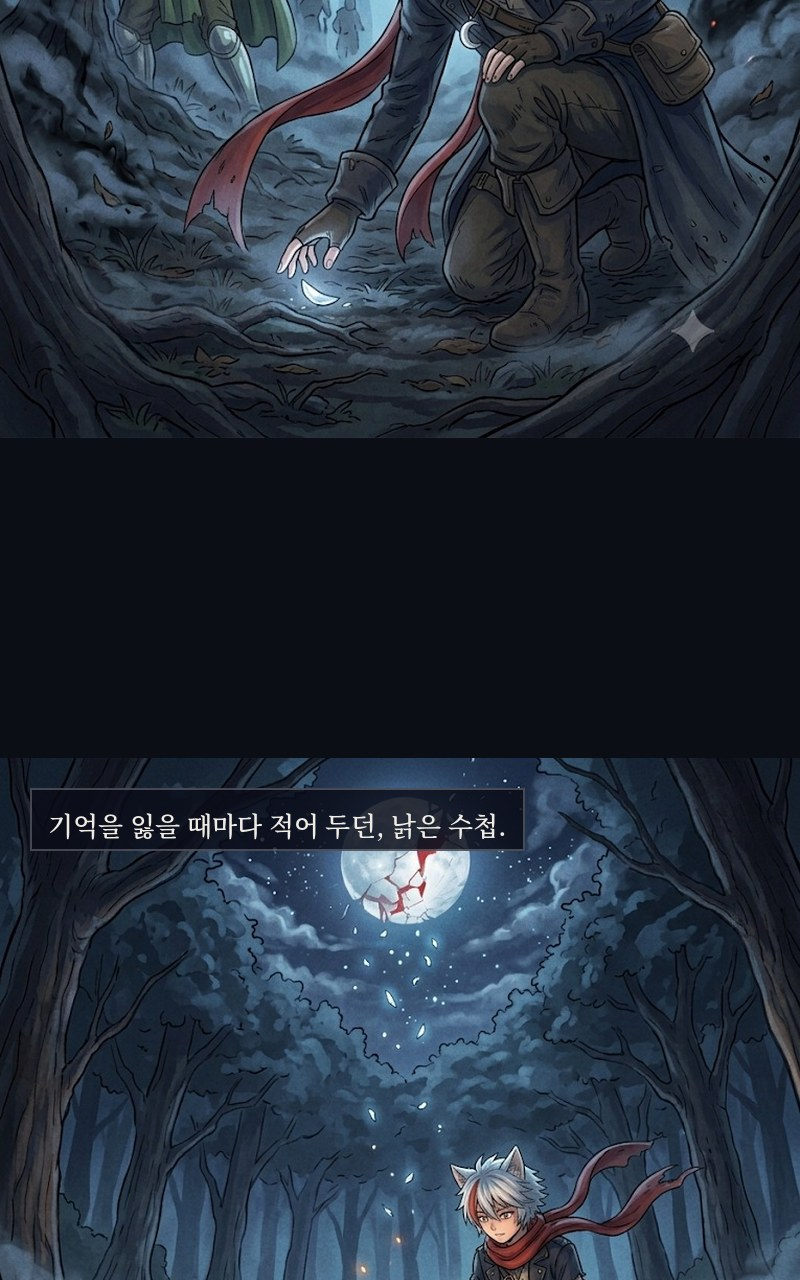
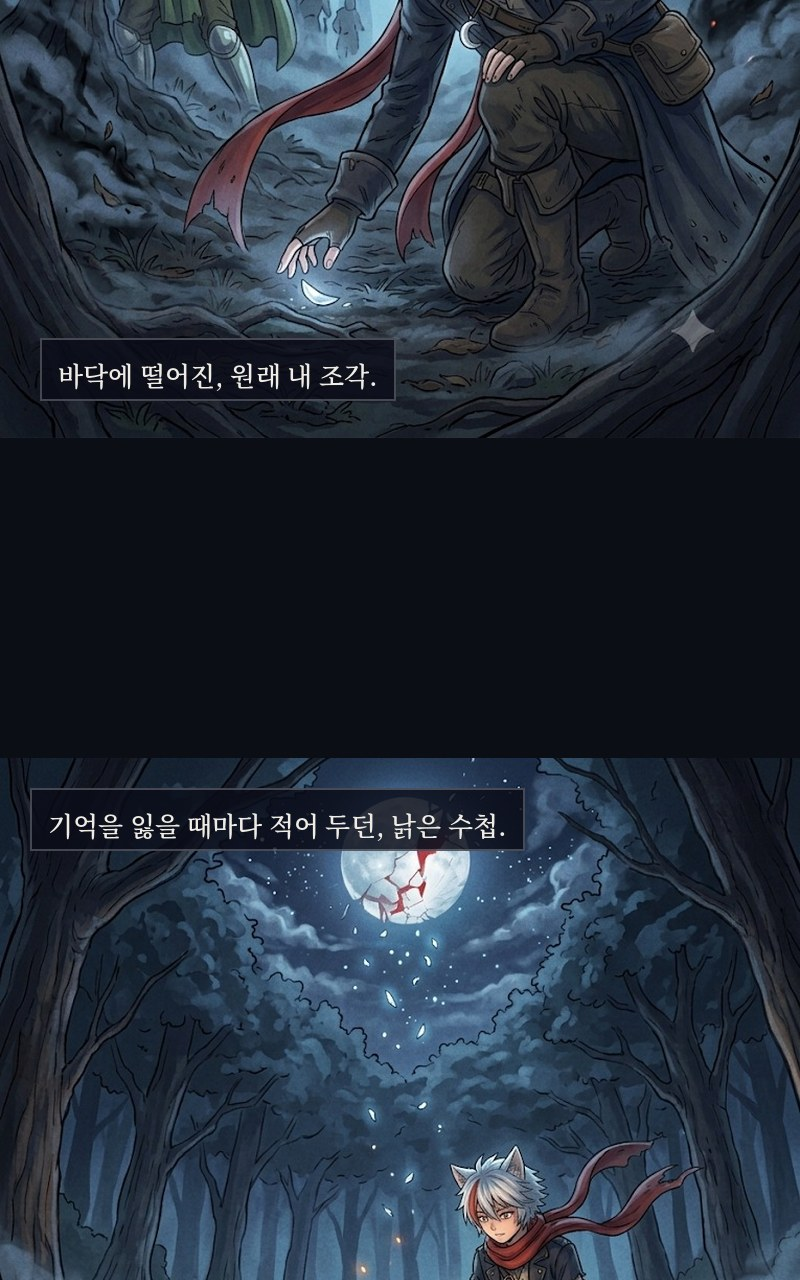
달빛툰 1화: 개연성 보강 (숨긴 두 번째 조각, 떨어진 조각)
Claude-Session: https://claude.ai/code/session_01D8ERGz5r4FPkuXoKDYhqRw

Changed region(s): [[0.0625, 0.25, 0.5, 0.3125]]

diff --git a/toon_tools/compose_ep1.py b/toon_tools/compose_ep1.py
@@ -1,0 +1,213 @@
+"""달빛툰 1화 세로 웹툰 조립: 컷(제미나이) + 말풍선·내레이션·효과음(코드) → 800px 세로 → 1280px 조각"""
+from PIL import Image, ImageDraw, ImageFont, ImageFilter
+import os, math
+
+W = 800
+SRC = "/home/claude/dongne-site/_stage/ep1"
+OUT = "/home/claude/dongne-site/_stage/ep1_out"
+os.makedirs(OUT, exist_ok=True)
+SANS = "/usr/share/fonts/opentype/noto/NotoSansCJK-Bold.ttc"
+SANSB = "/usr/share/fonts/opentype/noto/NotoSansCJK-Black.ttc"
+SERIF = "/usr/share/fonts/opentype/noto/NotoSerifCJK-SemiBold.ttc"
+F = lambda p, s: ImageFont.truetype(p, s, index=1)  # KR
+BG = (12, 14, 22)
+
+
+def panel(n, width=W, crop_top=165):
+    im = Image.open(f"{SRC}/p{n:02d}.jpg").convert("RGB")
+    im = im.crop((0, crop_top, im.width, im.height))
+    h = round(im.height * width / im.width)
+    return im.resize((width, h), Image.LANCZOS)
+
+
+def wrap(d, text, font, maxw):
+    out = []
+    for para in text.split("\n"):
+        line = ""
+        for ch in para:
+            t = line + ch
+            if d.textlength(t, font=font) > maxw and line:
+                out.append(line); line = ch
+            else:
+                line = t
+        out.append(line)
+    return out
+
+
+def bubble(img, text, cx, cy, size=30, tail=None, shout=False, maxw=320):
+    d = ImageDraw.Draw(img)
+    f = F(SANSB if shout else SANS, size)
+    lines = wrap(d, text, f, maxw)
+    lh = size * 1.35
+    tw = max(d.textlength(l, font=f) for l in lines); th = lh * len(lines)
+    rx, ry = tw / 2 + size * 1.1, th / 2 + size * 0.9
+    if tail:
+        tx, ty = tail
+        ang = math.atan2(ty - cy, tx - cx)
+        b1 = (cx + rx * 0.55 * math.cos(ang + 0.35), cy + ry * 0.55 * math.sin(ang + 0.35))
+        b2 = (cx + rx * 0.55 * math.cos(ang - 0.35), cy + ry * 0.55 * math.sin(ang - 0.35))
+        d.polygon([b1, (tx, ty), b2], fill="white", outline=(20, 20, 20))
+    if shout:
+        pts = []
+        for k in range(28):
+            a = k / 28 * 2 * math.pi
+            r = 1.18 if k % 2 == 0 else 0.98
+            pts.append((cx + rx * r * math.cos(a), cy + ry * r * math.sin(a)))
+        d.polygon(pts, fill="white", outline=(20, 20, 20), width=3)
+    else:
+        d.ellipse([cx - rx, cy - ry, cx + rx, cy + ry], fill="white", outline=(20, 20, 20), width=3)
+    if tail:  # 꼬리 이음새 덮기
+        d.polygon([b1, ((b1[0] + b2[0]) / 2 + (cx - (b1[0] + b2[0]) / 2) * 0.3, (b1[1] + b2[1]) / 2 + (cy - (b1[1] + b2[1]) / 2) * 0.3), b2], fill="white")
+    y = cy - th / 2
+    for l in lines:
+        d.text((cx - d.textlength(l, font=f) / 2, y), l, font=f, fill=(15, 15, 15)); y += lh
+
+
+def narration(img, text, x, y, size=26, maxw=560, dark=True):
+    d = ImageDraw.Draw(img, "RGBA")
+    f = F(SERIF, size)
+    lines = wrap(d, text, f, maxw)
+    lh = size * 1.55
+    tw = max(d.textlength(l, font=f) for l in lines)
+    pad = 18
+    box = [x, y, x + tw + pad * 2, y + lh * len(lines) + pad * 2 - (lh - size)]
+    d.rectangle(box, fill=(10, 12, 24, 215) if dark else (250, 247, 240, 235), outline=(255, 255, 255, 60) if dark else (40, 30, 20, 120), width=2)
+    yy = y + pad
+    for l in lines:
+        d.text((x + pad, yy), l, font=f, fill=(238, 236, 228) if dark else (30, 24, 20)); yy += lh
+
+
+def sfx(img, text, x, y, size=90, color=(255, 255, 255), stroke=(20, 10, 10), rot=-8):
+    f = F(SANSB, size)
+    tmp = Image.new("RGBA", (int(size * len(text) * 1.2 + 40), int(size * 1.6)), (0, 0, 0, 0))
+    d = ImageDraw.Draw(tmp)
+    d.text((20, 10), text, font=f, fill=color, stroke_width=max(4, size // 14), stroke_fill=stroke)
+    tmp = tmp.rotate(rot, expand=True, resample=Image.BICUBIC)
+    img.paste(tmp, (int(x), int(y)), tmp)
+
+
+def card(h, bg=BG):
+    return Image.new("RGB", (W, h), bg)
+
+
+def center_text(img, text, y, font, fill, spacing=1.6):
+    d = ImageDraw.Draw(img)
+    for i, l in enumerate(text.split("\n")):
+        d.text(((W - d.textlength(l, font=font)) / 2, y + i * font.size * spacing), l, font=font, fill=fill)
+
+
+blocks = []  # (image, gap_after)
+
+# 0. 오프닝: 검은 화면 · 붉은 글씨 (전독시식 첫 화면)
+c = card(900)
+center_text(c, "…이번이 마지막이다.", 400, F(SERIF, 44), (214, 58, 52))
+blocks.append((c, 0))
+c = card(520)
+center_text(c, "EPISODE 1", 170, F(SANS, 22), (201, 71, 63))
+center_text(c, "F급의 수첩", 220, F(SERIF, 58), (240, 238, 232))
+center_text(c, "F급 사냥꾼은 99번째 인생을 기억한다", 330, F(SANS, 22), (150, 156, 175))
+blocks.append((c, 120))
+
+p = panel(1)
+narration(p, "백 년째 아침이 오지 않는 세상.", 30, 30)
+bubble(p, "F급 주제에\n조각을 주웠어?", 590, 190, size=30, tail=(520, 330))
+sfx(p, "하하하!", 60, 470, size=60, color=(255, 236, 200), rot=6)
+blocks.append((p, 60))
+
+p = panel(2)
+narration(p, "깨진 달에서 떨어지는 은빛 '달 조각'.\n부수면 산도 밀어낼 힘이 생긴다.", 30, 30)
+narration(p, "대신, 기억이 하나 지워진다.", 300, p.height - 120)
+blocks.append((p, 60))
+
+p = panel(3)
+bubble(p, "이건 그린홀드\n기사단이 가져가지.", 230, 110, size=30, tail=(300, 260))
+narration(p, "가문 없는 여우는, 원래 그런 대우를 받았다.", 120, p.height - 100)
+blocks.append((p, 280))
+
+p = panel(4)
+narration(p, "그날 밤, 그림자 숲.", 30, 30)
+bubble(p, "앞장서, 길잡이.", 590, 160, size=28, tail=(560, 300))
+blocks.append((p, 40))
+
+p = panel(5)
+narration(p, "길잡이가 아니라 — 미끼였다.", 220, 30)
+sfx(p, "그르르…", 470, 560, size=64, color=(230, 60, 60), stroke=(10, 0, 0), rot=-4)
+blocks.append((p, 40))
+
+p = panel(6)
+bubble(p, "미끼 노릇이나 해라!", 230, 110, size=34, tail=(280, 230), shout=True)
+bubble(p, "…!", 640, 330, size=34, tail=(560, 420))
+narration(p, "달아나던 바르크의 손에서, 빼앗긴 조각이 떨어졌다.", 40, p.height - 100, maxw=700)
+blocks.append((p, 0))
+
+c = card(900)
+center_text(c, "레온의 품에는 조각이 하나 더 있었다.", 250, F(SERIF, 28), (200, 205, 220))
+center_text(c, "아무에게도 보여 주지 않은, 손톱만 한 조각.", 300, F(SERIF, 22), (150, 156, 175))
+center_text(c, "'쓰지 마.'", 480, F(SERIF, 40), (200, 205, 220))
+center_text(c, "— 머릿속에서, 내 목소리가 들렸다.", 570, F(SERIF, 22), (120, 126, 145))
+blocks.append((c, 0))
+
+p = panel(7)
+sfx(p, "콰직", 470, 60, size=110, color=(255, 255, 255), stroke=(40, 40, 80), rot=10)
+blocks.append((p, 200))
+
+p = panel(8)
+narration(p, "기억이 지워져야 했다.", 30, 30)
+narration(p, "그런데 — 반대였다.", 430, p.height - 100)
+blocks.append((p, 40))
+
+p = panel(9)
+narration(p, "수십 번. 아니, 백 번 가까이.", 30, 30)
+bubble(p, "…다음은, 왼쪽.", 600, p.height - 150, size=28, tail=(520, p.height - 260))
+blocks.append((p, 40))
+
+p = panel(10)
+sfx(p, "서걱!", 470, 90, size=120, color=(255, 255, 255), stroke=(120, 20, 20), rot=-12)
+blocks.append((p, 160))
+
+p = panel(11)
+bubble(p, "이건 내가 가져가지.", 560, 140, size=32, tail=(520, 300))
+narration(p, "바닥에 떨어진, 원래 내 조각.", 40, p.height - 100)
+blocks.append((p, 320))
+
+p = panel(12)
+narration(p, "기억을 잃을 때마다 적어 두던, 낡은 수첩.", 30, 30)
+blocks.append((p, 40))
+
+p = panel(13)
+narration(p, "그런데 페이지가 늘어나 있었다.\n처음 보는 — 하지만 틀림없는 내 글씨로.", 30, 30)
+blocks.append((p, 0))
+
+c = Image.new("RGB", (W, 760), (236, 226, 204))
+d = ImageDraw.Draw(c)
+for yy in range(120, 700, 52):
+    d.line([(70, yy + 40), (730, yy + 40)], fill=(205, 190, 165), width=1)
+fh = F(SERIF, 28)
+note = ["1. 사흘 뒤, 붉은 비가 온다. 지붕 아래 있어라.", "2. 동쪽 폐성으로 가라. 그곳이 네 성이다.", "3. 세나를 지켜라. 이번에는 반드시.", "4. 절대 그 여우를 믿지 마라."]
+for i, l in enumerate(note):
+    d.text((80, 128 + i * 104), l, font=fh, fill=(52, 40, 30))
+d.text((440, 560), "— 99번째의 너가.", font=F(SERIF, 30), fill=(52, 40, 30))
+blocks.append((c, 0))
+
+p = panel(14)
+sfx(p, "…이번이 마지막이다.", 120, 40, size=46, color=(220, 40, 40), stroke=(30, 0, 0), rot=-3)
+blocks.append((p, 0))
+
+c = card(560)
+center_text(c, "2화 「폐성」에서 계속", 230, F(SERIF, 34), (232, 228, 220))
+center_text(c, "달빛툰 · 글 Claude · 그림 제미나이", 320, F(SANS, 18), (110, 116, 135))
+blocks.append((c, 0))
+
+# 세로로 잇기 (컷 사이 여백 = 연출 속도)
+H = sum(b.height + g for b, g in blocks)
+strip = Image.new("RGB", (W, H), BG)
+y = 0
+for b, g in blocks:
+    strip.paste(b, (0, y)); y += b.height + g
+strip.save(f"{OUT}/ep1_full.jpg", quality=88)
+# 1280px 조각
+n = 0
+for top in range(0, H, 1280):
+    n += 1
+    strip.crop((0, top, W, min(H, top + 1280))).save(f"{OUT}/ep1_{n:02d}.jpg", quality=88)
+print("height", H, "slices", n)

diff --git a/_stage/compose_ep1.py b/_stage/compose_ep1.py
@@ -135,13 +135,16 @@ sfx(p, "그르르…", 470, 560, size=64, color=(230, 60, 60), stroke=(10, 0, 0)
 blocks.append((p, 40))
 
 p = panel(6)
-bubble(p, "여우 밥이나 돼라!", 230, 110, size=34, tail=(280, 230), shout=True)
+bubble(p, "미끼 노릇이나 해라!", 230, 110, size=34, tail=(280, 230), shout=True)
 bubble(p, "…!", 640, 330, size=34, tail=(560, 420))
+narration(p, "달아나던 바르크의 손에서, 빼앗긴 조각이 떨어졌다.", 40, p.height - 100, maxw=700)
 blocks.append((p, 0))
 
 c = card(900)
-center_text(c, "'쓰지 마.'", 380, F(SERIF, 40), (200, 205, 220))
-center_text(c, "— 머릿속에서, 내 목소리가 들렸다.", 470, F(SERIF, 22), (120, 126, 145))
+center_text(c, "레온의 품에는 조각이 하나 더 있었다.", 250, F(SERIF, 28), (200, 205, 220))
+center_text(c, "아무에게도 보여 주지 않은, 손톱만 한 조각.", 300, F(SERIF, 22), (150, 156, 175))
+center_text(c, "'쓰지 마.'", 480, F(SERIF, 40), (200, 205, 220))
+center_text(c, "— 머릿속에서, 내 목소리가 들렸다.", 570, F(SERIF, 22), (120, 126, 145))
 blocks.append((c, 0))
 
 p = panel(7)
@@ -164,6 +167,7 @@ blocks.append((p, 160))
 
 p = panel(11)
 bubble(p, "이건 내가 가져가지.", 560, 140, size=32, tail=(520, 300))
+narration(p, "바닥에 떨어진, 원래 내 조각.", 40, p.height - 100)
 blocks.append((p, 320))
 
 p = panel(12)
